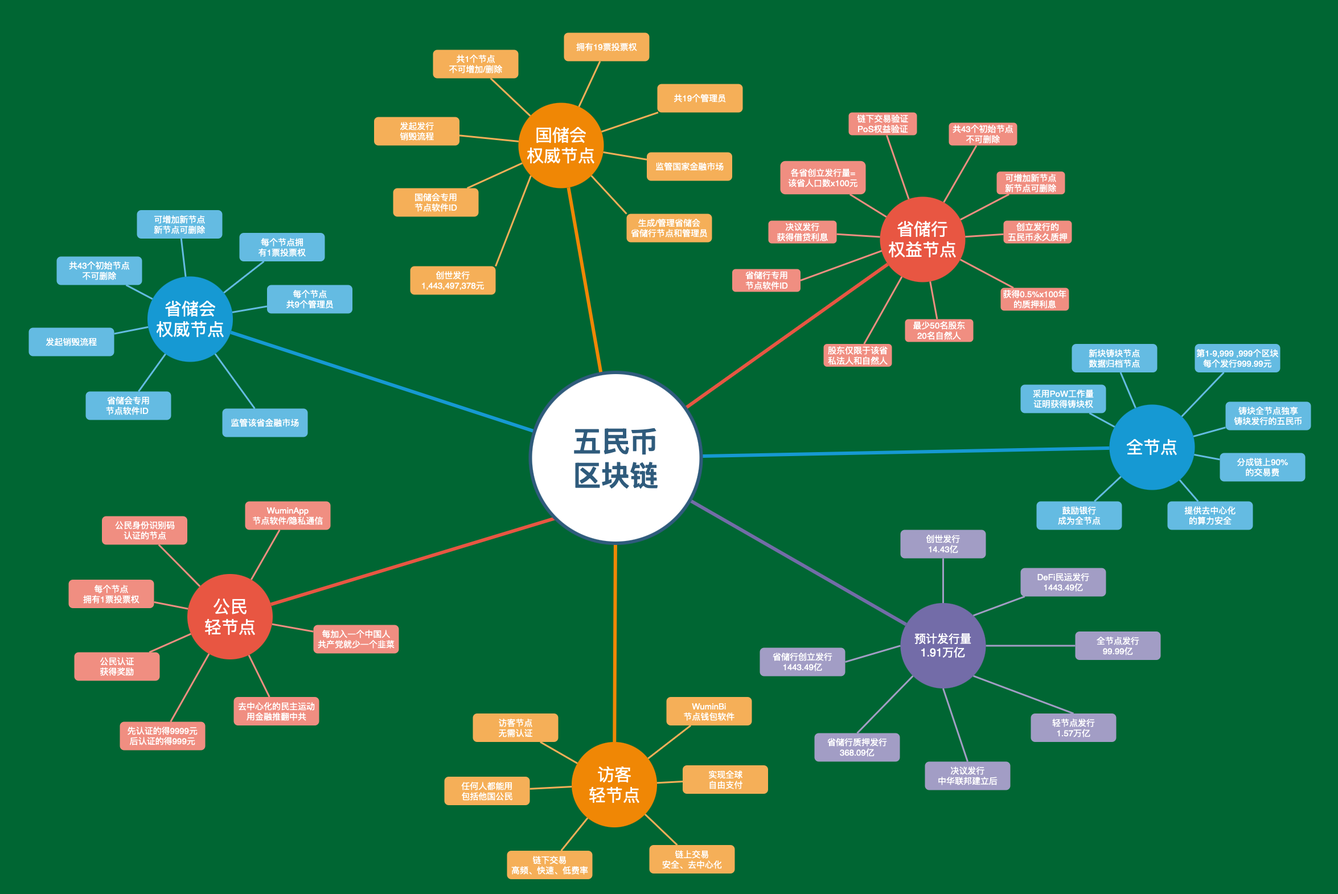
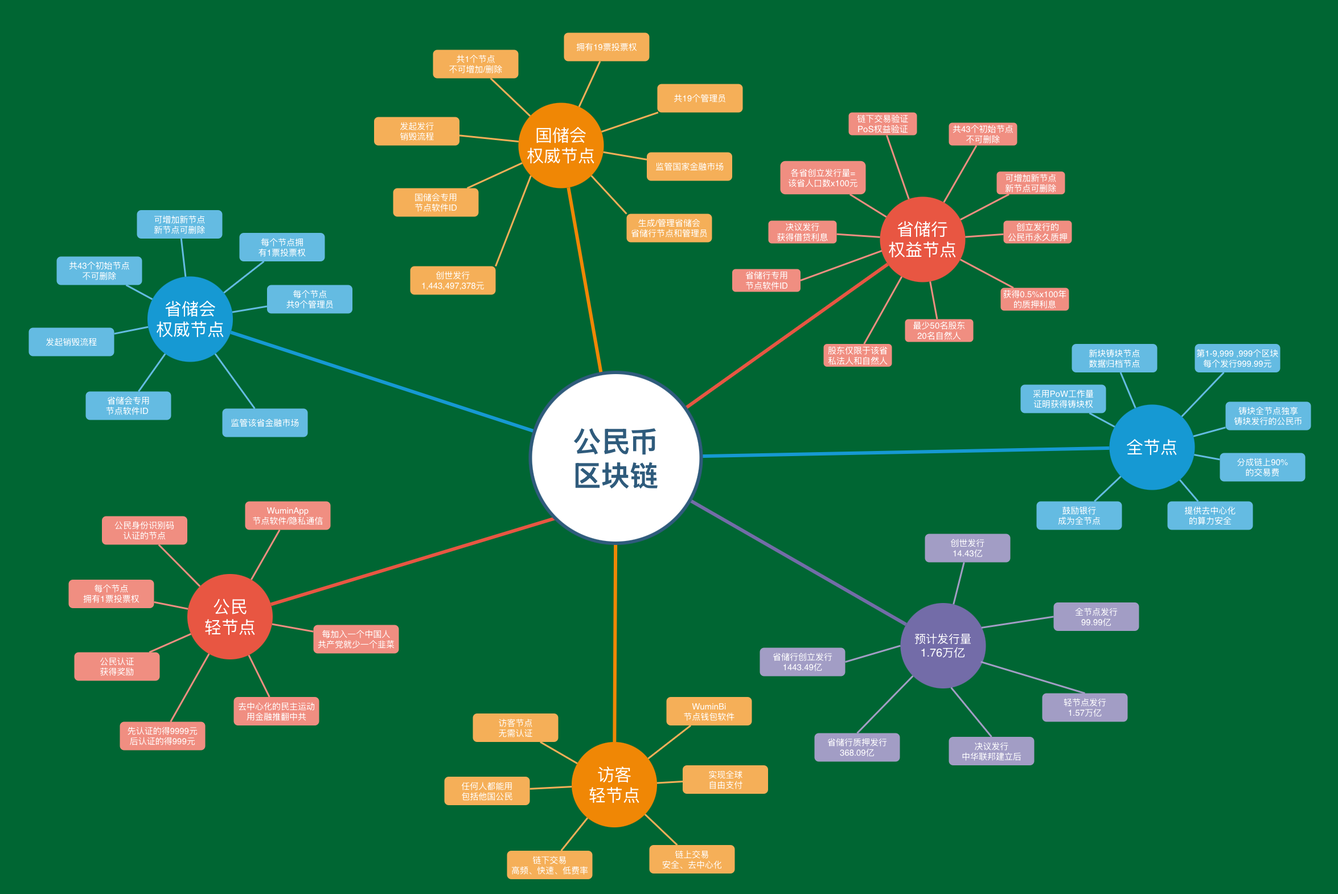
gx

diff --git a/README.md b/README.md
@@ -27,13 +27,12 @@
   <summary>3. 发行与销毁</summary>
 
   [3.1. 创世发行](#31创世发行)
-  [3.2. DeFi民运发行](#32DeFi民运发行)
-  [3.3. 省储行创立发行](#33省储行创立发行)
-  [3.4. 省储行质押发行](#34省储行质押发行)
-  [3.5. 全节点发行](#35全节点发行)
-  [3.6. 公民轻节点发行](#36公民轻节点发行)
-  [3.7. 决议发行](#37决议发行)
-  [3.8. 销毁](#38销毁)
+  [3.2. 省储行创立发行](#32省储行创立发行)
+  [3.3. 省储行质押发行](#33省储行质押发行)
+  [3.4. 全节点发行](#34全节点发行)
+  [3.5. 公民轻节点发行](#35公民轻节点发行)
+  [3.6. 决议发行](#36决议发行)
+  [3.7. 销毁](#37销毁)
   </details>
 
 - <details>
@@ -70,7 +69,7 @@
 ****
 # 1.总则
 ## 1.1.目的与背景
-* 基于区块链技术用于推动由五民党发起的<<去中心化金融的民主运动>>的主权区块链系统，创立五民币区块链，推广去中心化金融的民主运动（简称DeFi民运），以建立自由民主的中华民族联邦共和国————中华联邦；
+* 基于区块链技术用于推动由公民党发起的<<去中心化民主运动>>的主权区块链系统，创立公民币区块链，推广去中心化民主运动，以建立自由民主的中华民族联邦共和国————中华联邦；
 * 公民币区块链是一个不受任何机构掌控的主权区块链系统，一个所有人都能自由使用的法定货币系统，一个所有中华民族联邦共和国公民都能参与投票治理的法定区块链系统；
 * 公民币区块链是一个结合公权、金融、市场和隐私通信的综合区块链系统，将民主化运动和建立联邦制共和国与去中心化的区块链系统深度绑定，以此构建一个具有公信、安全、开放、透明、高效的主权区块链系统，实现跨国界的链上链下实时收付和隐私通信。
 
@@ -83,11 +82,10 @@
    |    发行类型      |            发行金额/简述            |         流通状态                    |                备注                      |
    |:---------------:|:---------------------------------:|:---------------------------------:|:----------------------------------------:|
    |   创世发行       |   1,443,497,378.00元 = 14.4349亿     |    流通                            | 国储会持有                                |
-   |   DeFi民运发行   |   144,349,737,800.00元 = 1443.4973亿 |    流通                            | 国储会持有（以太坊主网）                     |
    |   省储行创立发行  |   144,349,737,800.00元 = 1443.4973亿  |   非流通/永久质押                   | 各省储行质押钱包持有                        |
-   |   省储行质押发行  |   36,809,183,139.00元 = 368.0918亿    |   逐年释放/共100年                   | 省储行质押发行智能合约持有，部署前由国储会代持  |
+   |   省储行质押发行  |   36,809,183,139.00元 = 368.0918亿    |   逐年释放/共100年                   | 省储行质押发行智能合约持有                 |
    |   全节点发行     |   9,999,899,000.01元 = 99.9989亿      |   逐区块释放/共9,999,999个区块        | 写入PoW共识                               |
-   |   公民轻节点发行  |   1,571,981,633,622.00元 = 1.5719万亿  |  逐节点释放/共1,443,497,378个节点    | 公民轻节点发行智能合约持有，部署前由国储会代持  |
+   |   公民轻节点发行  |   1,571,981,633,622.00元 = 1.5719万亿  |  逐节点释放/共1,443,497,378个节点    | 公民轻节点发行智能合约持有                |
    |   决议发行      |       中华联邦建立后，联储会决议        |                -                  | 公民轻节点可投票否决发行                    |
 ## 1.4.创世理念
 * 先有人类后有国家，是公民建立国家，国家是公民的国家，是公民治理国家，而不是国家统治公民，公民没有爱国的义务；国家政权的建立其基本原则是保护公民的生命权、自由权、财产权、反抗压迫权和选举与被选举权不受任何的非法侵犯，当国家政权无法保证这一基本原则时，公民有权有义务推翻这个政权，建立一个以保障公民生命权、自由权、财产权、反抗压迫权和选举与被选举权为基本原则的政权。
@@ -135,22 +133,17 @@
    |    中共第7次人口普查数据   |          创世发行量       |     国储会多签地址（公民币）       |      国储会USDT/USDC钱包地址(以太坊)            |
    |:-----------------------:|:-----------------------:|:---------------------------------:|:--------------------------------------------:|
    |    1,443,497,378人      |   1,443,497,378.00元     | 0x63e2690b28414c681977c19d0d612625c7901e6b04458da4176ba4874fd2113f |   0x5Ce9B56b9D1812a7cF29841E21756F09cA7D223B |
-* 一个人在社会中享有若干权益的同时，同样应尽若干义务，尽了若干义务的，亦应享受若干权益，创世发行寓意每一个中共国人支付1.00元，以支持《五民主义》和《DeFi民运》；   
-* 创世发行1,443,497,378.00元数字五民币，兑换价格为每0.0001U兑换1.00元数字五民币，即1U=10000.00元数字五民币，预计融资额144,349.7378U（14.4349万U），由国储会权威节点发行并持有；
+* 一个人在社会中享有若干权益的同时，同样应尽若干义务，尽了若干义务的，亦应享受若干权益，创世发行寓意每一个中共国人支付1.00元，以支持《五民主义》和《去中心化民运》；   
+* 创世发行1,443,497,378.00元数字公民币，兑换价格为每0.001U兑换1.00元数字公民币，即1U=1000.00元数字公民币，预计融资额1,443,497.378U（144.349万U），由国储会权威节点发行并持有；
 * 资金用途
    |          项目                            |  预算金额（美元）  |
    |:---------------------------------------:|:---------------:|
-   |各官网开发                                 |     1.00万     |
-   |五民币区块链开发                            |     5.00万      |
-   |WuminApp匿名社交软件开发（含公民轻节点功能）    |    3.00万      |
-   |推广与社区建设                              |     5.00万      |
-## 3.2.DeFi民运发行
-* DeFi民运发行是为了快速推广五民主义和DeFi民运（去中心化金融的民主运动），DeFi民运发行的五民币将全部用于推广五民主义和DeFi民运，由国储会在以太坊主网发行144,349,737,800五民币，即以每个中国人发行100五民币；
-   |     DeFi民运发行量     |      简述       |                  发行合约地址(以太坊)            | 
-   |:---------------------:|:--------------:|:---------------------------------------------:|
-   |  144,349,737,800元    |   1443.49亿元   |   0xE7723686c4AE5BDF19c8f0c4F6EB4c6195640060  | 
+   |各官网开发                                 |     10.00万     |
+   |公民币区块链开发                            |     30.00万      |
+   |WuminApp匿名社交软件开发（含公民轻节点功能）    |    10.00万      |
+   |推广与社区建设                              |     50.00万      |
 
-## 3.3.省储行创立发行
+## 3.2.省储行创立发行
 * 生成省储行节点的，即发行该省总人口数x100的数字五民币，各省人口以中共第7次人口普查数据为基准（已做省份调整），共计发行144,349,737,800元；  
    |  序号  |    省份     |     人口数量       |          发行金额           |       简述        |     该省储行质押地址      |
    |:-----:|:-----------:|:----------------:|:--------------------------:|:-----------------:|:----------------------------|
@@ -198,10 +191,10 @@
    |  41   |   热河省     |   15,489,562人   |     1,548,956,200.00元      |    15.48亿元      |0x80d01d6198a9121e98724cae237f4a9a8f425932db77ee94026408eab50a2548|
    |  42   |   兴安省     |   3,991,080人    |     399,108,000.00元        |    3.99亿元       |0xa6f2daffe8d06fc5948a9ed606ebae529e348ae4f94c5f5e69867caffcee084a|
    |  43   |   合江省     |   8,738,458人    |     873,845,800.00元        |    8.73亿元       |0x16baa06b70cb409622766d05703c4fdd2dc1545eaf5b3a9bcf65c3fbe8413077|
-* 各省储行创立发行的数字五民币永久质押于该省储行单签名账户地址，该地址在runtime中硬编码限制支出，只能转入不能转出；    
-## 3.4.省储行质押发行
-* 各省储行质押的数字五民币，由系统质押发行支付100年的质押利息,由系统以智能合约方式在每个自然年结束后自动发行并存入各个省储行多签名地址；  
-* 质押发行的数字五民币归各省储行所有，用于省储行运营和帮助各省的民运人士，在质押期满100年后，即永久停止质押发行，不再支付质押利息；  
+* 各省储行创立发行的数字公民币永久质押于该省储行单签名账户地址，该地址在runtime中硬编码限制支出，只能转入不能转出；    
+## 3.3.省储行质押发行
+* 各省储行质押的数字公民币，由系统质押发行支付100年的质押利息,由系统以智能合约方式在每个自然年结束后自动发行并存入各个省储行多签名地址；  
+* 质押发行的数字公民币归各省储行所有，用于省储行运营和帮助各省的民运人士，在质押期满100年后，即永久停止质押发行，不再支付质押利息；  
 * 质押发行的初始年利率为5.0‰，从第一年开始以线性衰减的方式每两年减少0.1‰，以广东省省储行为例，收益如下：  
    |  质押时间  |  质押利率    |     广东省质押年收益（质押本金：10,601,286,400.00元）   |
    |:---------:|:-----------:|:-------------------------------------------------:|
@@ -212,8 +205,8 @@
    |  第100年  |   0.1‰      |       1,060,128.64元                               | 
    |  第101年  |   0.0‰      |       0.00元                                       |
 
-## 3.5.全节点发行
-* 运行全节点的每铸造一个新区块，系统发行999.99元数字五民币用于奖励该节点，全节点铸块发行为第1个至第9,999,999个区块，共计发行量为9,999,899,000.01元数字五民币；
+## 3.4.全节点发行
+* 运行全节点的每铸造一个新区块，系统发行999.99元数字公民币用于奖励该节点，全节点铸块发行为第1个至第9,999,999个区块，共计发行量为9,999,899,000.01元数字公民币；
    | 单个区块发行量  |    可发行的区块总量   |     总发行量          |     简述      |
    |:------------:|:-------------------:|:--------------------:|:-------------:|
    |   999.99元    |      9,999,999个   |  9,999,899,000,01元   |   99.9989亿元    |
@@ -221,7 +214,7 @@
    |  区块高度   | 第1个区块   |  第2个区块   |  第9,999,999个区块  |   第10,000,000个区块   |
    |:---------:|:-----------:|:------------:|:----------------:|:-------------------:|
    |**发行金额**|  999.99元  |  999.99元  |    999.99元    |       停止发行        | 
-## 3.6.公民轻节点发行
+## 3.5.公民轻节点发行
 * 使用联邦公民身份识别码完成公民轻节点认证的，将获得认证奖励，可获得认证奖励的节点总量为1,443,497,378个，前14,436,417个认证的公民轻节点，每个认证的节点奖励9999.00元；第14,436,417个之后再认证的公民轻节点，每个认证的节点奖励999.00元；  
    |   阶段   |    认证节点数     |  单节点发行金额  |        总发行量          |      简述       |
    |:-------:|:----------------:|:-------------:|:-----------------------:|:--------------:|
@@ -230,28 +223,28 @@
    |总计     |  1,443,497,378个  |        -     |  1,571,981,633,622.00元  |  15719.8163亿元   |
 * 所有获得公民轻节点认证发行的奖励，均处于锁定状态，在持有该轻节点的公民完成《公民素质教育》题库学习合格后，即可解锁奖励资金，公民轻节点发行智能合约自动发放奖励；  
 * 达到公民轻节点发行总量后，再认证的节点不再获得奖励，认证发行奖励以先完成认证优先获得，每个公民身份识别码仅能认证一次；  
-* 公民轻节点发行能让更多的公民参与去中心化金融的民主运动，早日推翻共产党，通过公民轻节点发行，鼓励更多的公民学习《公民素质教育》题库，以提高公民的认知。  
-## 3.7.决议发行
-* 成立公民储备委员会后，由联储会决议发行或销毁数字五民币，经联储会联合会议决议通过后，由国储会权威节点发起发行，权威节点间投票发行；  
-* 适时发行纸质五民币，纸质五民币用以替换人民币，数字五民币与纸质五民币按1:1兑换，五民币与人民币自由兑换；  
-* 纸质五民币面额由1元、5元、10元、20元、50元、100元和500元共7种面额组成。
-## 3.8.销毁
-* 国储会权威节点可发起销毁所持有账户内的五民币，国储会发起销毁流程的，需所有权威节点间投票，且公民轻节点可驳回；
-* 省储会权威节点可发起销毁所持有账户内的五民币，省储会发起销毁流程的，需所有权威节点间投票，且公民轻节点可驳回。
+* 公民轻节点发行能让更多的公民参与去中心化民主运动，早日推翻共产党，通过公民轻节点发行，鼓励更多的公民学习《公民素质教育》题库，以提高公民的认知。  
+## 3.6.决议发行
+* 成立公民储备委员会后，由联储会决议发行或销毁数字公民币，经联储会联合会议决议通过后，由国储会权威节点发起发行，权威节点间投票发行；  
+* 适时发行纸质公民币，纸质公民币用以替换人民币，数字公民币与纸质公民币按1:1兑换，公民币与人民币自由兑换；  
+* 纸质公民币面额由1元、5元、10元、20元、50元、100元和500元共7种面额组成。
+## 3.7.销毁
+* 国储会权威节点可发起销毁所持有账户内的公民币，国储会发起销毁流程的，需所有权威节点间投票，且公民轻节点可驳回；
+* 省储会权威节点可发起销毁所持有账户内的公民币，省储会发起销毁流程的，需所有权威节点间投票，且公民轻节点可驳回。
 ****
 # 4.费用及利息
 ## 4.1.链上交易费
 * 链上交易费由链上交易手续费和链上交易小费组成，链上交易手续费为0.1%，精度为四舍五入后的小数点后四位，且单笔支付手续费最少为0.001元，不足0.001元的以0.001元计算，由付款方必须支付，链上交易小费则由付款方在支付发起时自行设定小费金额，默认为0元/笔，可选择1元及任意整倍数/笔交易；  
-* 链上交易费的70%用于奖励铸块的全节点，10%支付给国储会权威节点多签地址用于社区建设和国储会节点运营，20%支付到黑洞地址（黑洞地址：0x0000000000000000000000000000000000000000000000000000000000000000），用于代币通缩燃烧；链下交易和纸质五民币的交易手续费不适用于此条规则；  
-* 链下交易上链的，除省储行权益节点获得的手续费外，其他链下交易不用再支付链上交易费，例：小李支付1000元五民币给小习，由广东省储行权益节点验证的，其费率为0.1%，那么小李需要支付1001元，小习收到1000元，广东省储行权益节点收到1元，该交易上链时，那1000元不用支付链上交易费，而广东省储行获得的1元需要支付链上交易手续费。  
+* 链上交易费的70%用于奖励铸块的全节点，10%支付给国储会权威节点多签地址用于社区建设和国储会节点运营，20%支付到黑洞地址（黑洞地址：0x0000000000000000000000000000000000000000000000000000000000000000），用于代币通缩燃烧；链下交易和纸质公民币的交易手续费不适用于此条规则；  
+* 链下交易上链的，除省储行权益节点获得的手续费外，其他链下交易不用再支付链上交易费，例：小李支付1000元公民币给小习，由广东省储行权益节点验证的，其费率为0.1%，那么小李需要支付1001元，小习收到1000元，广东省储行权益节点收到1元，该交易上链时，那1000元不用支付链上交易费，而广东省储行获得的1元需要支付链上交易手续费。  
 ## 4.2.链下交易费
 * 链下交易手续费由各省储行权益节点自行设定，可设定的范围为0.01%至0.1%，精度为四舍五入后的小数点后四位，且单笔支付手续费最少为0.001元，不足0.001元的以0.001元计算，链下交易手续费由执行清算的省储行所有；  
 * 链下交易手续费由付款用户承担，根据收款方所使用的省储行清算费率在用户付款时同时支付，收款用户可自行选择清算的省储行（每年可更换3次），默认为收款用户所在地省储行。
 ## 4.3.借贷利息
-* 储委会新发行的五民币，由发行决议分配给各省储会，省储会将其持有的五民币借贷给所在地省储行，以获得借贷利息收益；
-* 省储行持有的五民币，根据本省储会决议，将其持有的五民币借贷给辖区商业银行，以获得借贷利息收益。  
+* 储委会新发行的公民币，由发行决议分配给各省储会，省储会将其持有的公民币借贷给所在地省储行，以获得借贷利息收益；
+* 省储行持有的公民币，根据本省储会决议，将其持有的公民币借贷给辖区商业银行，以获得借贷利息收益。  
 ## 4.4.质押利息
-* 各省储行质押的省储行创立发行的数字五民币，系统累计支付100年的质押利息，满100年后即永久停止支付质押利息。 
+* 各省储行质押的省储行创立发行的数字公民币，系统累计支付100年的质押利息，满100年后即永久停止支付质押利息。 
 * ****
 # 5.投票机制
 ## 5.1.投票系统
@@ -272,7 +265,7 @@
 * 系统配置防欺诈功能，自动检测异常行为，并记录所有操作日志，供后续审计和用户审阅；
 * 投票规则、投票记录、投票结果完全公开，任何用户均可查阅；投票规则变更的，必须同步更新本白皮书，并向全链广播更新内容。
 ## 5.2.拒绝发行或销毁
-* 非全票通过的联储会联合会议决议，有超过全链65%的可投票轻节点投票否决发行或销毁数字五民币决议的，可否定联储会发行或销毁数字五民币的决议；  
+* 非全票通过的联储会联合会议决议，有超过全链65%的可投票轻节点投票否决发行或销毁数字公民币决议的，可否定联储会发行或销毁数字公民币的决议；  
 * 满足联储会联合会议全票通过，且所有省储行节点均全票通过的决议，可直接生效，不再进入轻节点投票环节。  
 ## 5.3.增减省储会、省储行节点
 * 国储会权威节点增加/减少新省储会、新省储行节点的，在国储会权威节点和现有省储会、省储行节点间投票，有超过65%的节点投票同意的，即通过，反之则否决。  
@@ -283,16 +276,16 @@
 * 采用模块化开发，开发初期就要做好为后期去框架的准备，并符合长期技术演进，为今后重构中国的政府、金融、通信等领域的应用预留扩展。
 ## 6.1.核心模块/core
 ### 6.1.1.区块链/block
-* 创世区块写入创世发行、省储行创立发行、省储行质押发行、公民轻节点发行；其中，创世发行的五民币存入国储会多签名地址；各省储行创立发行的五民币分别存入对应的各省储行单签名地址；省储行质押发行和公民轻节点发行的五民币暂时存入国储会多签名地址，在省储行质押发行智能合约和公民轻节点发行智能合约部署后，国储会再将其转入对应的合约地址；
+* 创世区块写入创世发行、省储行创立发行、省储行质押发行、公民轻节点发行；其中，创世发行的公民币存入国储会多签名地址；各省储行创立发行的公民币分别存入对应的各省储行单签名地址；省储行质押发行和公民轻节点发行的公民币分别存入省储行质押发行智能合约和公民轻节点发行智能合约地址；
 * 写入创世区块的五民宣言declaration of wumin：先有人类后有国家，是公民建立国家，国家是公民的国家，是公民治理国家，而不是国家统治公民，公民没有爱国的义务；国家政权的建立其基本原则是保护公民的生命权、自由权、财产权、反抗压迫权和选举与被选举权不受任何的非法侵犯，当国家政权无法保证这一基本原则时，公民有权有义务推翻这个政权，建立一个以保障公民生命权、自由权、财产权、反抗压迫权和选举与被选举权为基本原则的政权。
 * 写入创世区块的五民主义wuminism：中华民族联邦共和国国家名称是基于中华各民族悠久历史与璀璨文化的沉淀，全称为：中华民族联邦共和国，简称为：中华联邦，或中国及中华民国；中华民族联邦共和国是致力于推行五民主义———公民治理国家（民治）、实现民主共和（民主）、保障公民权利（民权）、建设民生社会（民生）、复兴民族文化（民族）———的联邦制共和国"。
-* 创世配置文件使用json定义区块链的创世状态，包括区块链名称、ID、网络标识、引导节点、创世状态、节点映射表等信息，其中，创世状态定义创世宣言、创世发行，以及持有创世发行、省储行创立发行、省储行质押发行、公民轻节点发行五民币的各账户地址和金额。
+* 创世配置文件使用json定义区块链的创世状态，包括区块链名称、ID、网络标识、引导节点、创世状态、节点映射表等信息，其中，创世状态定义创世宣言、创世发行，以及持有创世发行、省储行创立发行、省储行质押发行、公民轻节点发行公民币的各账户地址和金额。
 ### 6.1.2.共识/consensus
 #### 6.1.2.1.工作量证明/PoW
 * 全节点使用PoW工作量证明共识获得铸块权，负责链上交易验证并铸块；
 * 从第1个-第9,999,999个区块，每个区块发行999.99元五民币，用于奖励铸块的全节点，超过9,999,999个区块后停止发行，写入pow共识代码；
 #### 6.1.2.2.权益证明/PoS
-* 链下交易由各省储行权益节点负责交易验证，省储行的交易验证权益来自于永久质押于各省储行质押钱包中的五民币；
+* 链下交易由各省储行权益节点负责交易验证，省储行的交易验证权益来自于永久质押于各省储行质押钱包中的公民币；
 * 用户在钱包前端（WuminApp或WuminBi）选择链下支付的，由各省储行负责交易验证，并在每天零点集中将前一天的链下交易打包上链；
 * 由任一省储行验证的链下交易在验证后将广播至全部省储行节点和权威节点，以保持一致性。
 ### 6.1.3.节点/nodes
@@ -349,19 +342,19 @@
 ## 6.8.桌面前端/desktop
 * 所有桌面前端节点软件均使用Linux系统；
 ### 6.8.1.国储会权威节点软件
-* 导入账户，显示多签地址余额、节点名称、PeerID，链上发送和接收五民币，部署质押发行合约、公民轻节点发行智能合约；
+* 导入账户，显示多签地址余额、节点名称、PeerID，链上发送和接收公民币，部署质押发行合约、公民轻节点发行智能合约；
 ### 6.8.2.省储会权威节点软件
-* 导入账户，显示多签地址余额、节点名称、PeerID，链上发送和接收五民币；
+* 导入账户，显示多签地址余额、节点名称、PeerID，链上发送和接收公民币；
 ### 6.8.3.省储行权益节点软件
-* 导入账户，显示质押账户余额、多签地址余额、节点名称、PeerID，链上发送和接收五民币；
+* 导入账户，显示质押账户余额、多签地址余额、节点名称、PeerID，链上发送和接收公民币；
 ### 6.8.4.全节点软件
-* 生成钱包、导入钱包，显示账户余额，链上发送和接收五民币；
+* 生成钱包、导入钱包，显示账户余额，链上发送和接收公民币；
 * 显示挖矿获得的奖励明细；
 ## 6.9.手机前端/mobile
 ### 6.9.1.公民轻节点软件/WuminApp
-* 生成钱包、导入钱包、显示账户余额、使用链下支付发送和接收五民币；
+* 生成钱包、导入钱包、显示账户余额、使用链下支付发送和接收公民币；
 * 绑定账户地址、PeerID和CIIC码，并使用账户地址做为隐私通信的用户ID；
 * 匿名社交功能，P2P匿名即时通信，使用Nova Wallet和Matrix开源框架，搭建集钱包和隐私通信于一体的手机端软件；
 ### 6.9.2.访客轻节点软件/WuminBi
-* 生成钱包、导入钱包、显示余额、使用链上/链下支付发送和接收五民币；
+* 生成钱包、导入钱包、显示余额、使用链上/链下支付发送和接收公民币；
 ****
